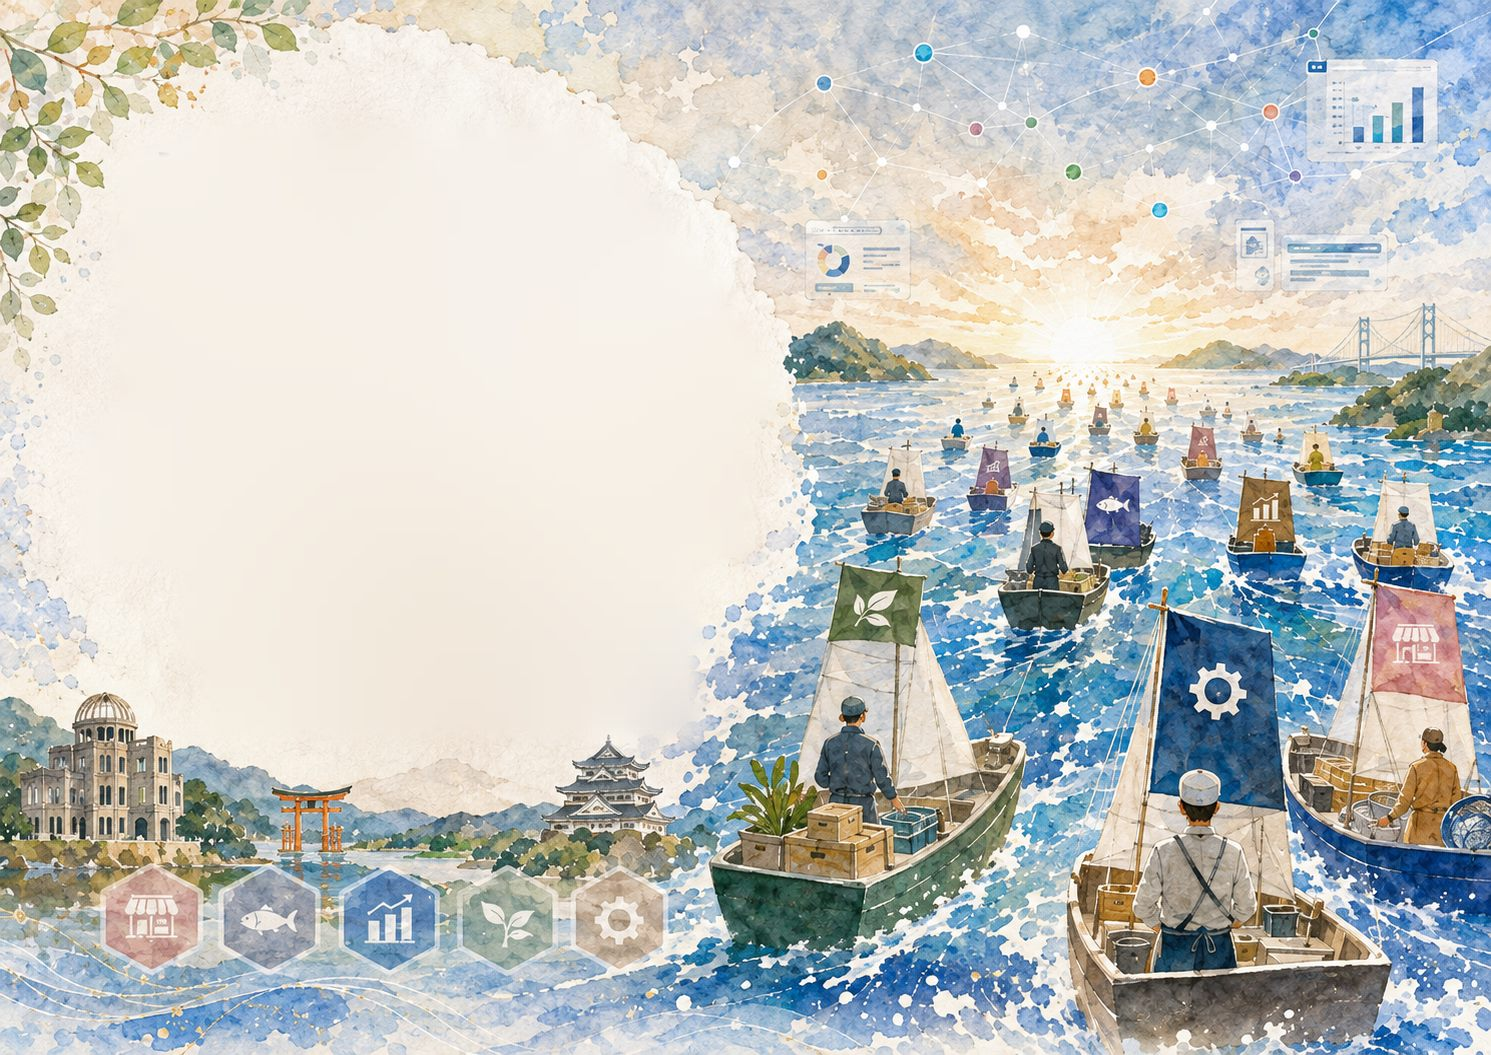
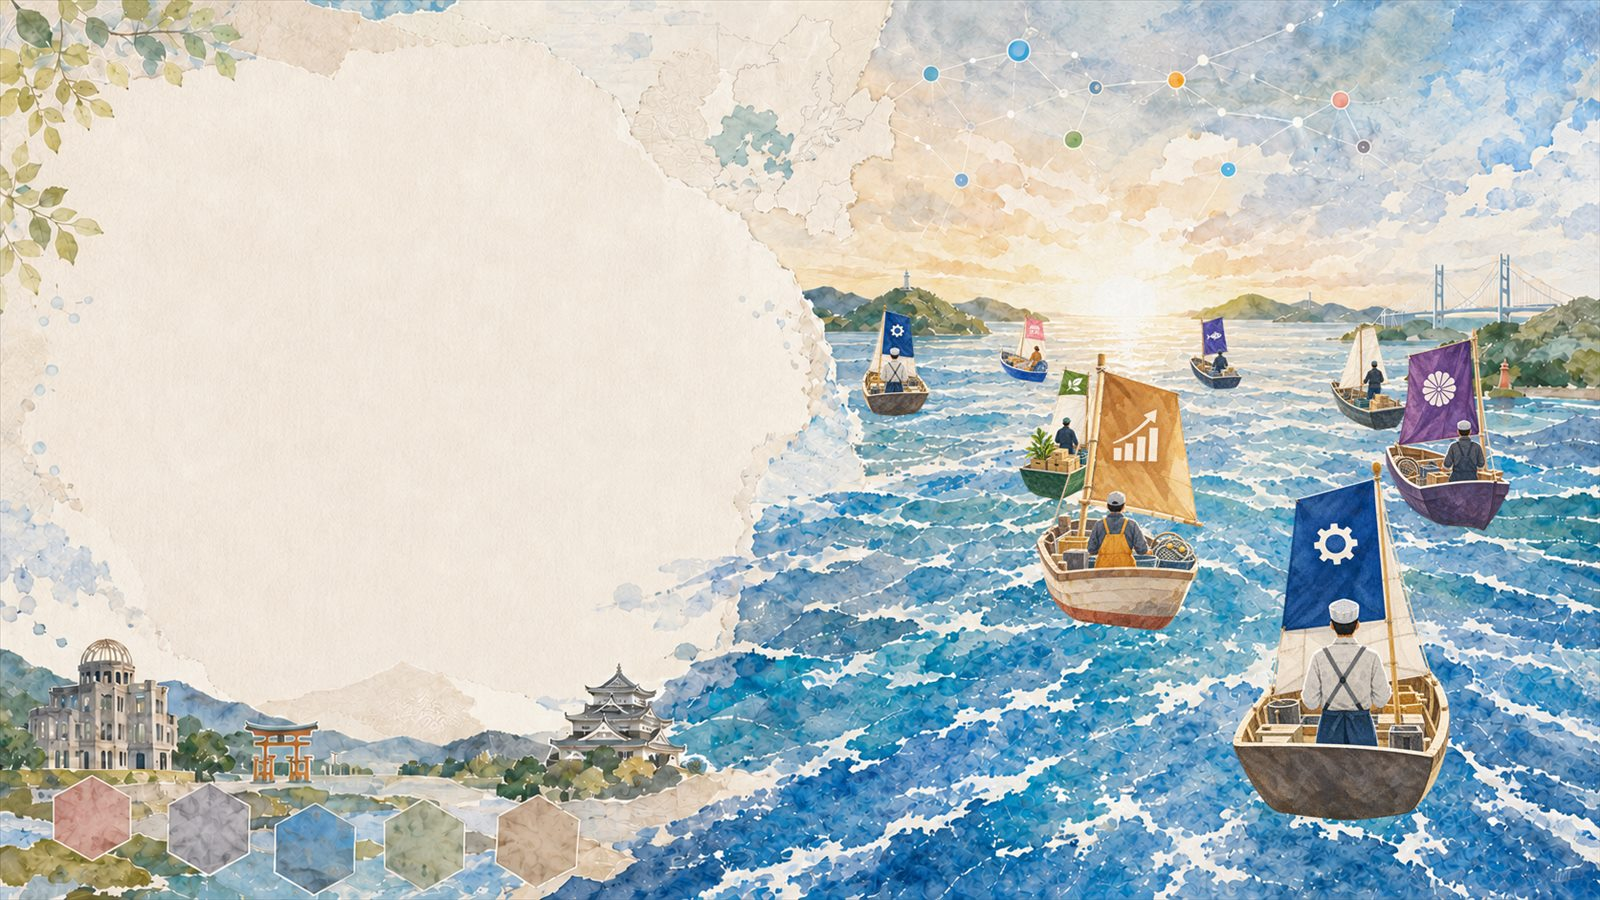
feat: PC版のヒーローを船アイコンの船団に差し替える
船が描かれていない背景画像に、船アイコン8点を夕日へ向かって遠ざかる
並びで合成した。これまでは文字が焼き込まれた完成イメージから文字だけを
消して使っていたため、船が絵に固定されていて配置を直せなかった。

置き方は目視ではなく実測で担保する。
- 水平線より下の画素の色から水の地図を作り、各船の喫水線が水の上にある
  かを数える。97%を割ったら生成を止める。
- 波の谷は暗い青なので「暗い＝陸」だけでは水を陸と誤読する。暗い場合は
  青が赤より強いことも条件に加えた（縦の絵の生成にも同じ規則を入れた）。
- 紙は明るいクリーム色で「陸ではない」と判定されるため、紙の縁を折れ線で
  明示的に除外した。
- 船どうしの重なりは、置く大きさに縮めた不透明画素を占有マップに積んで
  数える。外接矩形では帆の上の透明な余白まで数えてしまう。
結果は8隻すべて水率100%、重なり0.0〜6.2%。

紙の右端が絵の横中央から 44〜45vw に移ったので、本文の左余白と幅も
合わせ直した。あわせてヒーローの高さを画面ではなく絵で決めるようにした
（min-height:clamp(940px,74vw,1060px)）。低いと cover が絵を縮めて
絵の下の帯にある広島城が上がってきて、リード文の下に食い込む
（1280pxで 1.52:1 まで落ちていた）。

検証: 2560/1920/1440/1280/1100/1024/834/767/430/390/360 の11サイズで
check.js・overlap.js・onpaper.js がすべて合格。ヒーローの文字は紙の上で
5.8〜9.9:1。

diff --git a/style.css b/style.css
@@ -627,7 +627,11 @@ h2{
 /* ============================================================
    ヒーロー
    ============================================================ */
-.hero{padding:0;min-height:min(100svh,880px);display:flex;align-items:center;}
+/* 高さは画面ではなく絵で決める。絵は 16:9 で、下の帯に原爆ドーム・鳥居・
+   広島城が並ぶ。ヒーローが低いと cover が絵を縮めて建物が上がってきて、
+   リード文の下に食い込む（1280pxで 1.52:1 まで落ちた）。高さを確保すると
+   絵が拡大され、建物は本文より下へ逃げる。 */
+.hero{padding:0;min-height:clamp(940px, 74vw, 1060px);display:flex;align-items:center;}
 /* ヒーローだけは中央寄せの器を外す。位置は絵に合わせるため画面幅で決める */
 .hero > .wrap{width:100%;}
 
@@ -655,15 +659,16 @@ h2{
    1120px で中央寄せなので、広い画面では左端が20%まで下がってしまい、
    紙の左3割が空いたまま見出しだけ窮屈になる。
 
-   紙の右端が画面のちょうど中央に来るのは偶然ではない。cover は
-   短い辺に合わせて拡大するので、絵の横中央は必ず画面の横中央に来る。
-   だから右端は画面幅によらず 50vw で、そこから内側に本文を収めればよい。 */
+   紙の右端は、画面幅によらずおおむね 44〜45vw に来る（1100〜2560px で
+   実測）。cover の拡大率は画面の縦横比で決まるが、絵が 16:9 で、ヒーロー
+   の高さに上限があるため、結果としてこの範囲に収まる。余裕を見て本文は
+   41vw までに収める。 */
 .hero-inner{
   position:relative;width:100%;
   display:flex;align-items:flex-start;justify-content:space-between;gap:32px;
-  padding:104px 4vw 64px 10vw;
+  padding:104px 4vw 64px 8vw;
 }
-.hero-panel{max-width:min(40vw,760px);}
+.hero-panel{max-width:min(33vw,620px);}
 
 .hero-title{
   font-family:var(--serif);
@@ -815,9 +820,9 @@ h2{
 
    左を 13vw まで寄せているのは、その原爆ドームの尖塔を避けるため。 */
 @media (min-width:768px) and (max-width:1279px){
-  .hero{min-height:min(100svh,820px);}
-  .hero-inner{padding:76px 4vw 48px 13vw;}
-  .hero-panel{max-width:min(37vw,460px);}
+  .hero{min-height:clamp(900px, 78vw, 1000px);}
+  .hero-inner{padding:76px 4vw 48px 9vw;}
+  .hero-panel{max-width:min(32vw,430px);}
   .hero-title{font-size:clamp(24px,3.1vw,38px);}
   /* 紙は下へいくほど狭まる（破れた縁が左へ回り込む）。リード文はその
      一番狭い高さに乗るので、上の行より短く折り返す必要がある。 */

diff --git a/README_画像について.md b/README_画像について.md
@@ -45,12 +45,19 @@
 
 | ファイル | 寸法 | 使用箇所 |
 |---|---|---|
-| `backgrounds/hero-scene-wide.jpg` | 1491×1055 | PC・横長画面。ヒーロー全面 |
+| `backgrounds/hero-scene-wide.jpg` | 1600×900 | PC・横長画面。ヒーロー全面 |
 | `backgrounds/hero-mobile.jpg` | 900×1599 | 縦長画面。ヒーロー全面 |
 
-完成イメージから、**焼き込まれた文字だけを消した**ものです。文字はHTMLで
-置き直しています（画像内文字を禁じるルールのため）。再生成は
-`tools/build-hero-full.ps1`。
+どちらも**船だけが描かれていない絵**に、`LP\アイテム` の船アイコンを
+合成したものです。文字はHTMLで置き直しています（画像内文字を禁じる
+ルールのため）。再生成は `tools/build-hero-wide.ps1`（横）と
+`tools/build-hero-mobile.ps1`（縦）。
+
+横の絵の元は `LP\背景画像\ChatGPT Image 2026年8月26日 13_11_05.png`
+（1672×941）。以前は文字が焼き込まれた完成イメージから文字を消して
+使っていました（`tools/build-hero-full.ps1`）が、船が絵に固定されていて
+配置を直せませんでした。船の無い絵に切り替えたことで、船団の並びを
+スクリプトで調整できます。
 
 以前は船団のある右半分だけを切り出し、左はページのクリーム色に任せて
 いました。けれど絵の左端がどう減衰しても、そこで絵が終わることに変わりは
@@ -59,16 +66,24 @@
 移り変わりは絵の中の破れた縁がそのまま担ってくれます。継ぎ目は原理的に
 存在しなくなります。
 
-**本文の位置は絵の中の紙に合わせてあります。** 紙の右端は絵の横中央に
-あり、cover は必ず絵の横中央を画面の横中央に持ってくるので、画面幅に
-よらず「紙の右端＝50vw」です。ヒーローだけ .wrap を外し、`padding-left`
-と `.hero-panel` の `max-width` を vw で指定しているのはこのためです。
+**本文の位置は絵の中の紙に合わせてあります。** cover は必ず絵の横中央を
+画面の横中央に持ってくるので、紙の右端は画面幅によらず同じ vw の位置に
+来ます（今の絵では 44〜45vw あたり）。ヒーローだけ .wrap を外し、
+`padding-left` と `.hero-panel` の `max-width` を vw で指定しているのは
+このためです。絵を差し替えたら、この2つの値も測り直してください。
 
-### 縦画面の絵と船団
+**ヒーローの高さは画面ではなく絵で決めています**（`min-height:clamp(940px,
+74vw, 1060px)`）。絵の下の帯には原爆ドーム・鳥居・広島城が並んでいて、
+ヒーローが低いと cover が絵を縮めて建物が上がってきて、リード文の下に
+食い込みます（1280px で 1.52:1 まで落ちました）。高さを確保すると絵が
+拡大され、建物は本文より下へ逃げます。
 
-`hero-mobile.jpg` は、縦長の完成イメージ（紙 + 瀬戸内の夕景）に**船7点を
-合成したもの**です。素材の絵には船が描かれていないので、`LP\アイテム` の
-船アイコンを重ねています。生成は `tools/build-hero-mobile.ps1`。
+### 絵に焼き込んだ船団
+
+どちらの絵も、船アイコンを8点ずつ、夕日へ向かって遠ざかる並びに合成して
+あります（手前が大きく、奥ほど小さく、向きは互い違い）。素材の絵には船が
+描かれていないので、`LP\アイテム` の船アイコンを重ねています。生成は
+`tools/build-hero-wide.ps1` と `tools/build-hero-mobile.ps1`。
 
 **船はCSSで重ねず、絵に焼き込んでいます。** 背景は cover で表示するため、
 画面の縦横比によって左右が切り取られます。CSSの % で船を置くと画面の
@@ -85,9 +100,20 @@
 3. 各船の喫水線（外接矩形の下側30%）が水の上にあるかを数える
 4. 97% を割ったら、その場で止めて位置を報告する
 
+**船どうしの重なりも実測しています。** 外接矩形では判定になりません
+（帆の上は透明な余白が広く、矩形が重なっていても絵は重なっていない）。
+置く大きさに縮めた不透明画素そのものを占有マップに積み、先に置いた船と
+何％重なるかを数えて、9%を超えたら止めます。
+
+横の絵では、紙が明るいクリーム色で「陸ではない」と判定されてしまうため、
+紙の縁を折れ線（`$PaperEdge`）で明示的に除外しています。また、波の谷は
+暗い青なので「暗い＝陸」の規則だけでは水を陸と誤読します。暗い場合は
+青が赤より強いことも条件に加えてあります。
+
 位置を決めるときは `-Map` を付けて実行すると、水の地図がASCIIで出ます。
 
 ```bash
+powershell -File tools/build-hero-wide.ps1 -Map
 powershell -File tools/build-hero-mobile.ps1 -Map
 ```
 
